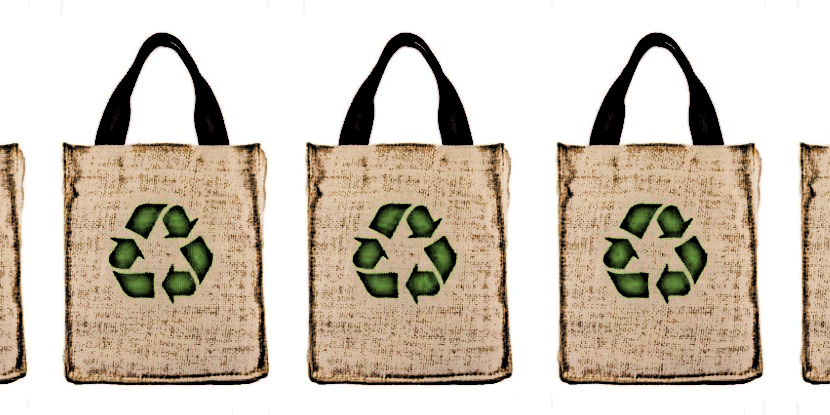
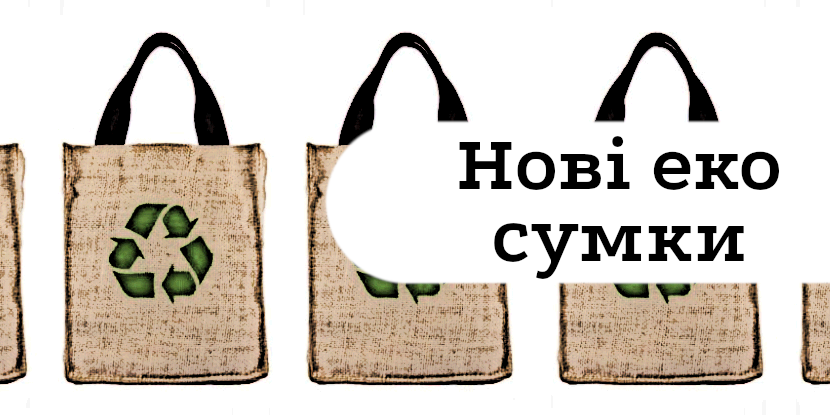
Slider images update

Changed region(s): [[0.3916, 0.2892, 1.0, 0.694]]

diff --git a/snippets/home-snippet.html b/snippets/home-snippet.html
@@ -1,28 +1,16 @@
 <div id="carouselExampleFade" class="carousel slide carousel-fade mt-4" data-bs-ride="carousel">
   <div class="carousel-inner ratio" style="--bs-aspect-ratio:50%;" >
   </div>
-  <button class="carousel-control-prev custom-color" type="button" data-bs-target="#carouselExampleFade" data-bs-slide="prev">
+  <button class="carousel-control-prev" type="button" data-bs-target="#carouselExampleFade" data-bs-slide="prev">
     <span class="carousel-control-prev-icon" aria-hidden="true"></span>
     <span class="visually-hidden">Previous</span>
   </button>
-  <button class="carousel-control-next custom-color" type="button" data-bs-target="#carouselExampleFade" data-bs-slide="next">
+  <button class="carousel-control-next" type="button" data-bs-target="#carouselExampleFade" data-bs-slide="next">
     <span class="carousel-control-next-icon" aria-hidden="true"></span>
     <span class="visually-hidden">Next</span>
   </button>
 </div>
-<div class="row mt-4">
-  <div class="col-lg-6 col-md-12 col-sm-12 mb-4">
-    <div class="container-fluid custom-color p-4 py-2">
-      <h2>Some info about site content</h2>
-      <p class="text-justify ">Lorem ipsum dolor sit amet consectetur, adipisicing elit. Quasi ut, eius corporis eligendi aut, minus est, fugiat nam eveniet dignissimos suscipit maiores iusto repudiandae doloremque! Eius sed quos eum doloribus, ea voluptas, blanditiis esse. Accusamus quisquam expedita veritatis asperiores modi est suscipit ut? Optio nam quasi, adipisci reprehenderit architecto, at!</p>     
-    </div>
-  </div>
-  <div class="col-lg-6 col-md-12 col-sm-12 mb-4">
-    <div class="container-fluid custom-color-inverse p-4 py-2">
-      <h2>Some info about site content</h2>
-      <p class="text-justify">Lorem ipsum dolor sit amet consectetur, adipisicing elit. Quasi ut, eius corporis eligendi aut, minus est, fugiat nam eveniet dignissimos suscipit maiores iusto repudiandae doloremque! Eius sed quos eum doloribus, ea voluptas, blanditiis esse. Accusamus quisquam expedita veritatis asperiores modi est suscipit ut? Optio nam quasi, adipisci reprehenderit architecto, at!</p>
-    </div>
-  </div>
+<div class="row mt-4">  
   <div class="col-lg-4 col-md-6 col-sm-12 mb-4">
     <div class="custom-color">
       <a href="#" class="text-decoration-none" onclick="$projectClass.loadCatalogCategories()">
@@ -44,7 +32,18 @@
     <div class="custom-color-inverse ratio" style="--bs-aspect-ratio:50%;">
       <iframe class="container-fluid p-0" src="https://www.google.com/maps/embed?pb=!1m14!1m12!1m3!1d1750.4160199528742!2d24.71445300875456!3d48.902803669326744!2m3!1f0!2f0!3f0!3m2!1i1024!2i768!4f13.1!5e0!3m2!1suk!2sua!4v1622011291040!5m2!1suk!2sua" allowfullscreen="" height="178"></iframe>
     </div>
-      <!--<img class="img-fluid" src="images/specials.png" alt="">-->
-      <h2 class="text-center m-0 px-0 py-4 custom-color-inverse">Карта</h2>    
+      <h2 class="text-center m-0 px-0 py-4 custom-color-inverse">Наші відділи</h2>
+  </div>
+  <div class="col-lg-6 col-md-12 col-sm-12 mb-4">
+    <div class="container-fluid custom-color p-4 py-2">
+      <h2>Some info about site content</h2>
+      <p class="text-justify ">Lorem ipsum dolor sit amet consectetur, adipisicing elit. Quasi ut, eius corporis eligendi aut, minus est, fugiat nam eveniet dignissimos suscipit maiores iusto repudiandae doloremque! Eius sed quos eum doloribus, ea voluptas, blanditiis esse. Accusamus quisquam expedita veritatis asperiores modi est suscipit ut? Optio nam quasi, adipisci reprehenderit architecto, at!</p>     
+    </div>
+  </div>
+  <div class="col-lg-6 col-md-12 col-sm-12 mb-4">
+    <div class="container-fluid custom-color-inverse p-4 py-2">
+      <h2>Some info about site content</h2>
+      <p class="text-justify">Lorem ipsum dolor sit amet consectetur, adipisicing elit. Quasi ut, eius corporis eligendi aut, minus est, fugiat nam eveniet dignissimos suscipit maiores iusto repudiandae doloremque! Eius sed quos eum doloribus, ea voluptas, blanditiis esse. Accusamus quisquam expedita veritatis asperiores modi est suscipit ut? Optio nam quasi, adipisci reprehenderit architecto, at!</p>
+    </div>
   </div>
 </div>
